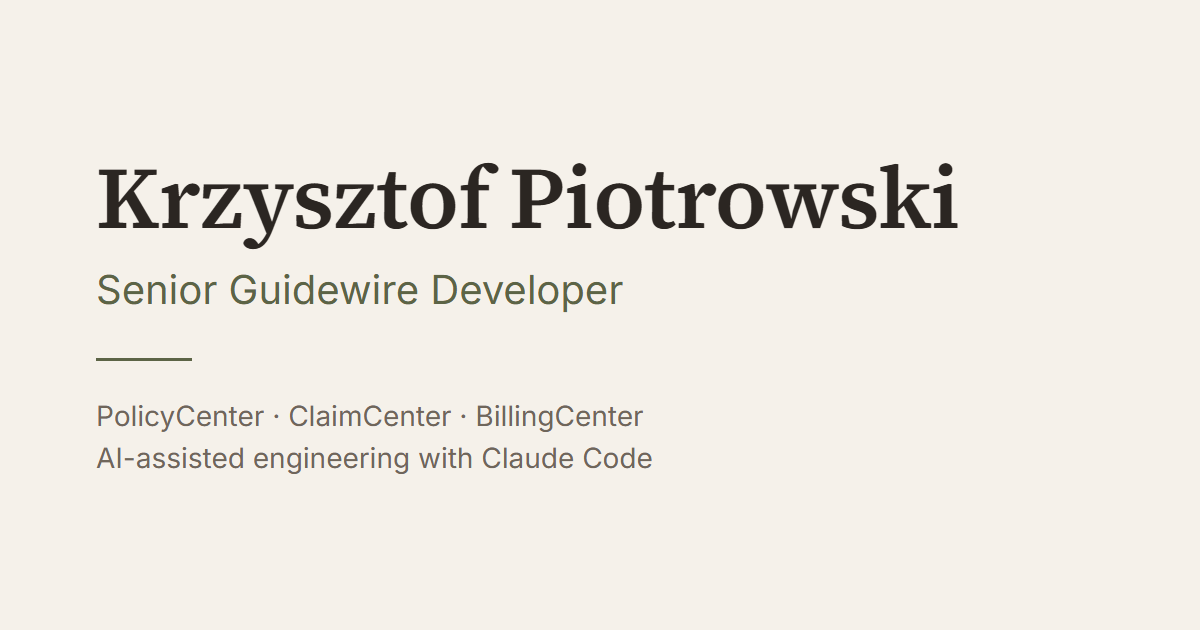
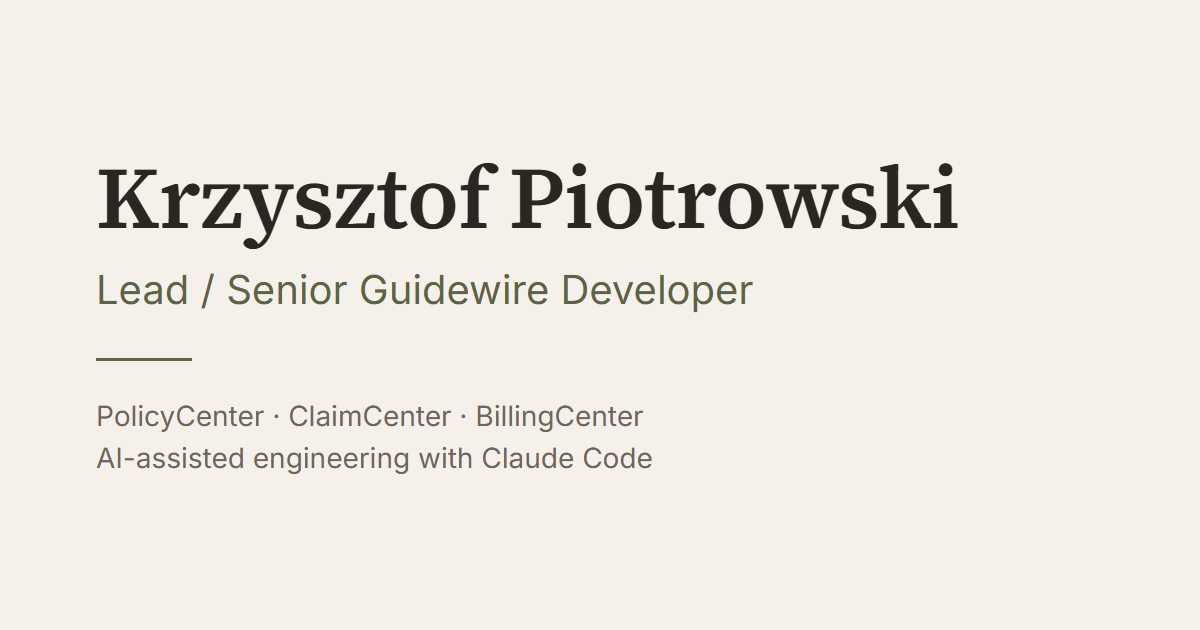
Update CV text and stop tracking content.md
- Title: Lead / Senior Guidewire Developer (header, page title, share card, structured data)
- Profile: ContactManager and the Qusar note removed, "lead AI-assisted engineering", eight years
- Baloise: shorter AI bullets (no position paper, no guardrails list), domain knowledge skills, integrations
- Beesafe: ContactManager removed, new PolicyCenter processes bullet
- Same changes in the German page
- content.md is now local only (gitignored)

Changed region(s): [[0.0617, 0.4222, 0.6475, 0.4825]]

diff --git a/de/index.html b/de/index.html
@@ -5,8 +5,8 @@
   <meta name="viewport" content="width=device-width, initial-scale=1">
   <!-- Keep search engines out until launch (Phase 4) -->
   <meta name="robots" content="noindex, nofollow">
-  <title>Krzysztof Piotrowski · Senior Guidewire Developer</title>
-  <meta name="description" content="Senior Guidewire Developer (PolicyCenter, ClaimCenter, BillingCenter), seit 2017 in der Entwicklung von Versicherungssystemen. KI-gestützte Softwareentwicklung mit Claude Code.">
+  <title>Krzysztof Piotrowski · Lead / Senior Guidewire Developer</title>
+  <meta name="description" content="Lead / Senior Guidewire Developer (PolicyCenter, ClaimCenter, BillingCenter), seit 2017 in der Entwicklung von Versicherungssystemen. KI-gestützte Softwareentwicklung mit Claude Code.">
   <link rel="canonical" href="https://purtata.github.io/de/">
   <link rel="icon" href="../favicon.svg" type="image/svg+xml">
   <link rel="stylesheet" href="../css/style.css">
@@ -17,12 +17,12 @@
   <!-- Link previews (LinkedIn, Slack, Teams, Facebook: Open Graph; X: Twitter card) -->
   <meta property="og:type" content="profile">
   <meta property="og:url" content="https://purtata.github.io/de/">
-  <meta property="og:title" content="Krzysztof Piotrowski · Senior Guidewire Developer">
+  <meta property="og:title" content="Krzysztof Piotrowski · Lead / Senior Guidewire Developer">
   <meta property="og:description" content="PolicyCenter, ClaimCenter und BillingCenter seit 2017. KI-gestützte Softwareentwicklung mit Claude Code.">
   <meta property="og:image" content="https://purtata.github.io/assets/og-image.png">
   <meta property="og:image:width" content="1200">
   <meta property="og:image:height" content="630">
-  <meta property="og:image:alt" content="Krzysztof Piotrowski, Senior Guidewire Developer">
+  <meta property="og:image:alt" content="Krzysztof Piotrowski, Lead / Senior Guidewire Developer">
   <meta property="og:locale" content="de_DE">
   <meta property="og:locale:alternate" content="en_GB">
   <meta property="profile:first_name" content="Krzysztof">
@@ -39,7 +39,7 @@
     "mainEntity": {
       "@type": "Person",
       "name": "Krzysztof Piotrowski",
-      "jobTitle": "Senior Guidewire Developer",
+      "jobTitle": "Lead / Senior Guidewire Developer",
       "url": "https://purtata.github.io/",
       "image": "https://purtata.github.io/assets/og-image.png",
       "sameAs": ["https://www.linkedin.com/in/krzysztof-piotrowski-22235b139"],
@@ -71,7 +71,7 @@
       <figcaption>So sieht mich Claude nach einer langen Session.<br><span>KI-generiertes Porträt</span></figcaption>
     </figure>
     <h1>Krzysztof Piotrowski</h1>
-    <p class="role">Senior Guidewire Developer</p>
+    <p class="role">Lead / Senior Guidewire Developer</p>
     <p class="meta">Rawicz, Polen · Remote</p>
     <p class="pitch">Seit 2017 entwickle ich Versicherungssysteme auf Guidewire, für Versicherer in Deutschland, der Schweiz und Polen. In meinem Team leite ich den Umstieg auf KI-gestützte Softwareentwicklung mit Claude Code.</p>
     <p class="actions">
@@ -84,9 +84,9 @@
 
     <section id="profile" aria-labelledby="profile-title">
       <h2 id="profile-title">Profil</h2>
-      <p>Senior Guidewire Developer, seit 2017 in der Entwicklung von Versicherungssystemen. Ich arbeite mit PolicyCenter, ClaimCenter, BillingCenter und ContactManager, in Konfiguration und Integration, für Versicherer in Deutschland, der Schweiz und Polen. Ich bin zertifizierter Guidewire Associate InsuranceSuite Developer (aktuelles Release, Qusar) und Configuration Specialist für PolicyCenter, ClaimCenter und BillingCenter.</p>
-      <p>In meinem aktuellen Team leite ich den Umstieg auf KI-gestützte Softwareentwicklung. Ich nutze Claude Code für agentische Entwicklung, baue das Harness und die Werkzeuge, die das auf einer großen Guidewire-Codebasis zuverlässig machen, und liefere damit Features und messbare Performance-Verbesserungen. Neue Kolleginnen und Kollegen rufen meist zuerst mich an.</p>
-      <p>Vor der Softwareentwicklung habe ich über sieben Jahre Bankfilialen und Versicherungsagenturen geführt. Ich kenne also die fachliche Seite der Systeme, die ich baue.</p>
+      <p>Senior Guidewire Developer, seit 2017 in der Entwicklung von Versicherungssystemen. Ich arbeite mit PolicyCenter, ClaimCenter und BillingCenter, in Konfiguration und Integration, für Versicherer in Deutschland, der Schweiz und Polen. Ich bin zertifizierter Guidewire Associate InsuranceSuite Developer und Configuration Specialist für PolicyCenter, ClaimCenter und BillingCenter.</p>
+      <p>In meinem aktuellen Team leite ich die KI-gestützte Softwareentwicklung. Ich nutze Claude Code für agentische Entwicklung, baue das Harness und die Werkzeuge, die das auf einer großen Guidewire-Codebasis zuverlässig machen, und liefere damit Features und messbare Performance-Verbesserungen.</p>
+      <p>Vor der Softwareentwicklung habe ich über acht Jahre Bankfilialen und Versicherungsagenturen geführt. Ich kenne also die fachliche Seite der Systeme, die ich baue.</p>
     </section>
 
     <section id="experience" aria-labelledby="experience-title">
@@ -97,10 +97,10 @@
         <p class="where"><time datetime="2025-07">Juli 2025</time> – heute · Warschau · Bad Homburg · Remote</p>
         <p class="project">HelvetiaBaloise Deutschland, PolicyCenter Bestandsführung · gemischtes Team beim deutschen Kunden (Beratung und interne Entwicklung)</p>
         <ul>
-          <li><strong>KI-Teamlead:</strong> Ich habe agentische, KI-gestützte Entwicklung in einem Team von 20 Personen (8 Entwickler) eingeführt und treibe sie voran. Entwickler aus mehreren Teams habe ich in Claude Code eingearbeitet (Setup, gemeinsame Artefakte, Lessons Learned), inklusive einer gemeinsamen Wissensbasis mit validierten Mustern und Erfahrungen, auf der jede KI-Session aufsetzt, und eines Positionspapiers der Community of Practice zu KI-generierten Tests.</li>
-          <li><strong>Lokale „Software Factory“ auf Basis von Claude Code:</strong> eine autonome Pipeline, die ein Jira-Ticket von der Aufnahme bis zur geprüften Übergabe begleitet, mit spezialisierten Agenten für Scoping, Analyse, Planung, Umsetzung und Verifikation sowie einem unabhängigen „Skeptiker“-Review. Leitplanken: keine autonomen Pushes, ein Commit pro Slice, ein Entscheidungslog und eine klare Kennzeichnung fachlicher Annahmen. Funktioniert über PolicyCenter, BillingCenter und ClaimCenter hinweg.</li>
-          <li><strong>Unterstützende KI-Skills:</strong> Guidewire-Code-Review gegen Akzeptanzkriterien, Analyse von Profiler-Exporten (N+1-Queries, SQL bis zum aufrufenden Gosu-Code zurückverfolgt), Log-Analyse mit Schutz vor Produktionszugriffen, Umwandlung von BA-Story-Cards und BPMN-Diagrammen in Text sowie Guidewire-Wissens-Skills (SQL mit Schemaprüfung, GUnit, Effective Dating, Workflows).</li>
-          <li><strong>Viele Tickets mit KI-Unterstützung umgesetzt</strong> (Features, Bugs, Performance), zum Beispiel eine mehrphasige Prämienregulierung, den Vermittlerwechsel als Vertragsänderung, Datenmigrationen und eine systemübergreifende Integration von PolicyCenter, ClaimCenter und BillingCenter.</li>
+          <li><strong>KI-Teamlead:</strong> Ich habe agentische, KI-gestützte Entwicklung in einem Team von 20 Personen (8 Entwickler) eingeführt und treibe sie voran. Entwickler aus mehreren Teams habe ich in Claude Code eingearbeitet (Setup, gemeinsame Artefakte, Lessons Learned), inklusive einer gemeinsamen Wissensbasis mit validierten Mustern und Erfahrungen, auf der jede KI-Session aufsetzt.</li>
+          <li><strong>Lokale „Software Factory“ auf Basis von Claude Code:</strong> eine autonome Pipeline, die ein Jira-Ticket von der Aufnahme bis zur geprüften Übergabe begleitet, mit spezialisierten Agenten für Scoping, Analyse, Planung, Umsetzung und Verifikation sowie einem unabhängigen „Skeptiker“-Review. Funktioniert über PolicyCenter, BillingCenter und ClaimCenter hinweg.</li>
+          <li><strong>Unterstützende KI-Skills:</strong> Guidewire-Code-Review gegen Akzeptanzkriterien, Skills mit Guidewire-spezifischem Fachwissen, Analyse von Profiler-Exporten (N+1-Queries, SQL bis zum aufrufenden Gosu-Code zurückverfolgt), Log-Analyse mit Schutz vor Produktionszugriffen und Umwandlung von BA-Story-Cards und BPMN-Diagrammen in Text.</li>
+          <li><strong>Viele Tickets mit KI-Unterstützung umgesetzt</strong> (Features, Bugs, Performance), zum Beispiel eine mehrphasige Prämienregulierung, den Vermittlerwechsel als Vertragsänderung, Datenmigrationen und systemübergreifende Integrationen zwischen PolicyCenter, ClaimCenter und BillingCenter.</li>
           <li><strong>Performance-Optimierung auf Basis von Profiling:</strong> den Großteil der SQL-Abfragen in einem zentralen Verlängerungsprozess eliminiert, die Abfragen einer schweren Maske auf einen Bruchteil reduziert, einen häufig genutzten Lookup mit einem Cluster-Cache um ein Mehrfaches beschleunigt, N+1-Ladevorgänge durch Batch-Loads ersetzt und systemübergreifende Aufrufe überarbeitet, um Timeouts bei großen Accounts zu beheben.</li>
           <li><strong>Fachliche Analyse und Produktionsanalyse:</strong> User Stories vor der Entwicklung gemeinsam mit den BAs schärfen; Produktionsvorfälle auf Produktionsdaten untersuchen (SQL, Splunk) und die Ursachen in Änderungen an Stories und Lösungen überführen, mit verständlichen Zusammenfassungen auf Englisch und Deutsch für BAs und Tester.</li>
           <li>PolicyCenter-Prozesse für neue Produkte gebaut: Wohngebäude-, Hausrat- und Gewerbeversicherung.</li>
@@ -114,7 +114,8 @@
         <p class="where"><time datetime="2023-05">Mai 2023</time> – <time datetime="2025-06">Juni 2025</time> · Warschau</p>
         <p class="project">Beesafe / Compensa Polen, alle vier Guidewire-Anwendungen</p>
         <ul>
-          <li>PolicyCenter, ClaimCenter, BillingCenter und ContactManager im Kernteam gewartet und weiterentwickelt, in enger Zusammenarbeit mit anderen Teams und den Fachbereichen.</li>
+          <li>PolicyCenter, ClaimCenter und BillingCenter im Kernteam gewartet und weiterentwickelt, in enger Zusammenarbeit mit anderen Teams und den Fachbereichen.</li>
+          <li>PolicyCenter-Prozesse: alle Vertragstransaktionen, die Nachverarbeitung und Integrationen mit anderen Systemen.</li>
           <li>PolicyCenter-Produktmodell: Systemtabellen, APD, neue Deckungen und Unterstützung der Aktuare bei Tarifänderungen.</li>
           <li>ClaimCenter-Geschäftsprozesse konzipiert und umgesetzt: Schadenmeldung (FNOL), vom Kunden benötigte Unterlagen und die Schadenakte.</li>
           <li>ClaimCenter-Integration mit Tractable (externer Dienst zur Bewertung von Fahrzeugschäden) konzipiert und umgesetzt: Versand der Schadenanfragen und Verarbeitung der zurückgelieferten Reparaturkalkulation.</li>

diff --git a/index.html b/index.html
@@ -5,8 +5,8 @@
   <meta name="viewport" content="width=device-width, initial-scale=1">
   <!-- Keep search engines out until launch (Phase 4) -->
   <meta name="robots" content="noindex, nofollow">
-  <title>Krzysztof Piotrowski · Senior Guidewire Developer</title>
-  <meta name="description" content="Senior Guidewire Developer (PolicyCenter, ClaimCenter, BillingCenter) building insurance systems since 2017. AI-assisted engineering with Claude Code.">
+  <title>Krzysztof Piotrowski · Lead / Senior Guidewire Developer</title>
+  <meta name="description" content="Lead / Senior Guidewire Developer (PolicyCenter, ClaimCenter, BillingCenter) building insurance systems since 2017. AI-assisted engineering with Claude Code.">
   <link rel="canonical" href="https://purtata.github.io/">
   <link rel="icon" href="favicon.svg" type="image/svg+xml">
   <link rel="stylesheet" href="css/style.css">
@@ -17,12 +17,12 @@
   <!-- Link previews (LinkedIn, Slack, Teams, Facebook: Open Graph; X: Twitter card) -->
   <meta property="og:type" content="profile">
   <meta property="og:url" content="https://purtata.github.io/">
-  <meta property="og:title" content="Krzysztof Piotrowski · Senior Guidewire Developer">
+  <meta property="og:title" content="Krzysztof Piotrowski · Lead / Senior Guidewire Developer">
   <meta property="og:description" content="PolicyCenter, ClaimCenter and BillingCenter since 2017. AI-assisted engineering with Claude Code.">
   <meta property="og:image" content="https://purtata.github.io/assets/og-image.png">
   <meta property="og:image:width" content="1200">
   <meta property="og:image:height" content="630">
-  <meta property="og:image:alt" content="Krzysztof Piotrowski, Senior Guidewire Developer">
+  <meta property="og:image:alt" content="Krzysztof Piotrowski, Lead / Senior Guidewire Developer">
   <meta property="og:locale" content="en_GB">
   <meta property="og:locale:alternate" content="de_DE">
   <meta property="profile:first_name" content="Krzysztof">
@@ -38,7 +38,7 @@
     "mainEntity": {
       "@type": "Person",
       "name": "Krzysztof Piotrowski",
-      "jobTitle": "Senior Guidewire Developer",
+      "jobTitle": "Lead / Senior Guidewire Developer",
       "url": "https://purtata.github.io/",
       "image": "https://purtata.github.io/assets/og-image.png",
       "sameAs": ["https://www.linkedin.com/in/krzysztof-piotrowski-22235b139"],
@@ -70,7 +70,7 @@
       <figcaption>How Claude sees me after a long session.<br><span>AI-generated portrait</span></figcaption>
     </figure>
     <h1>Krzysztof Piotrowski</h1>
-    <p class="role">Senior Guidewire Developer</p>
+    <p class="role">Lead / Senior Guidewire Developer</p>
     <p class="meta">Rawicz, Poland · Remote</p>
     <p class="pitch">Building insurance systems on Guidewire since 2017, for insurers in Germany, Switzerland and Poland. I lead my team's move to AI-assisted engineering with Claude Code.</p>
     <p class="actions">
@@ -83,9 +83,9 @@
 
     <section id="profile" aria-labelledby="profile-title">
       <h2 id="profile-title">Profile</h2>
-      <p>Senior Guidewire Developer building insurance systems since 2017. I work on PolicyCenter, ClaimCenter, BillingCenter and ContactManager, across configuration and integration, for insurers in Germany, Switzerland and Poland. I'm a certified Guidewire Associate InsuranceSuite Developer (current release, Qusar) and a Configuration Specialist for PolicyCenter, ClaimCenter and BillingCenter.</p>
-      <p>In my current team I lead the move to AI-assisted engineering. I use Claude Code for agentic development, build the harness and tooling that make it reliable on a large Guidewire codebase, and use it to deliver features and measurable performance gains. I'm usually the first person new joiners call.</p>
-      <p>Before software, I spent over seven years running bank branches and insurance agencies, so I know the business side of the systems I build.</p>
+      <p>Senior Guidewire Developer building insurance systems since 2017. I work on PolicyCenter, ClaimCenter and BillingCenter, across configuration and integration, for insurers in Germany, Switzerland and Poland. I'm a certified Guidewire Associate InsuranceSuite Developer and a Configuration Specialist for PolicyCenter, ClaimCenter and BillingCenter.</p>
+      <p>In my current team I lead AI-assisted engineering. I use Claude Code for agentic development, build the harness and tooling that make it reliable on a large Guidewire codebase, and use it to deliver features and measurable performance gains.</p>
+      <p>Before software, I spent over eight years running bank branches and insurance agencies, so I know the business side of the systems I build.</p>
     </section>
 
     <section id="experience" aria-labelledby="experience-title">
@@ -96,10 +96,10 @@
         <p class="where"><time datetime="2025-07">July 2025</time> – present · Warsaw · Bad Homburg (Germany) · Remote</p>
         <p class="project">HelvetiaBaloise Germany, PolicyCenter Policy Management · mixed German client team (consultancy and in-house developers)</p>
         <ul>
-          <li><strong>AI team lead:</strong> I introduced and promote agentic, AI-assisted development in a team of 20 (8 developers) and onboarded developers across teams to Claude Code (setup, shared artifacts, lessons learned), including a shared knowledge base of validated patterns and lessons learned that every AI session starts from, and a Community of Practice position paper on AI-generated tests.</li>
-          <li><strong>Built a local "software factory" on Claude Code:</strong> an autonomous pipeline that takes a Jira ticket from intake to a reviewed handover, with specialised agents for scoping, analysis, planning, execution, verification and an independent "skeptic" review. Guardrails: no autonomous pushes, one commit per slice, a decision log, and explicit flags for business assumptions. Works across PolicyCenter, BillingCenter and ClaimCenter.</li>
-          <li><strong>Built a set of supporting AI skills:</strong> Guidewire code review against acceptance criteria, profiler-export analysis (N+1 queries, SQL traced to Gosu callers), log investigation with a non-production guardrail, converting BA story cards and BPMN diagrams to text, and Guidewire knowledge skills (SQL with schema validation, GUnit, effective dating, workflows).</li>
-          <li><strong>Delivered many tickets with AI support</strong> (features, bugs, performance), for example a multi-phase premium-regulation feature, producer change as a policy change, data migrations, and a cross-system PolicyCenter / ClaimCenter / BillingCenter integration.</li>
+          <li><strong>AI team lead:</strong> I introduced and promote agentic, AI-assisted development in a team of 20 (8 developers) and onboarded developers across teams to Claude Code (setup, shared artifacts, lessons learned), including a shared knowledge base of validated patterns and lessons learned that every AI session starts from.</li>
+          <li><strong>Built a local "software factory" on Claude Code:</strong> an autonomous pipeline that takes a Jira ticket from intake to a reviewed handover, with specialised agents for scoping, analysis, planning, execution, verification and an independent "skeptic" review. Works across PolicyCenter, BillingCenter and ClaimCenter.</li>
+          <li><strong>Built a set of supporting AI skills:</strong> Guidewire code review against acceptance criteria, Guidewire-specific domain knowledge skills, profiler-export analysis (N+1 queries, SQL traced to Gosu callers), log investigation with a non-production guardrail, and converting BA story cards and BPMN diagrams to text.</li>
+          <li><strong>Delivered many tickets with AI support</strong> (features, bugs, performance), for example a multi-phase premium-regulation feature, producer change as a policy change, data migrations, and cross-system PolicyCenter / ClaimCenter / BillingCenter integrations.</li>
           <li><strong>Profiling-driven performance work:</strong> eliminated most of the SQL in a key renewal process, cut a heavy screen to a fraction of its queries, made a hot lookup several times faster with a cluster cache, replaced N+1 loads with batch loads, and reworked cross-system calls to fix timeouts on large accounts.</li>
           <li><strong>Business and production analysis:</strong> shape user stories with BAs before development; investigate production incidents on production data (SQL, Splunk) and turn the root causes into story and solution changes, with plain-language summaries in English and German for BAs and testers.</li>
           <li>Built PolicyCenter processes for new products: residential building, household and commercial insurance.</li>
@@ -113,7 +113,8 @@
         <p class="where"><time datetime="2023-05">May 2023</time> – <time datetime="2025-06">June 2025</time> · Warsaw</p>
         <p class="project">Beesafe / Compensa Poland, all four Guidewire applications</p>
         <ul>
-          <li>Maintained and developed PolicyCenter, ClaimCenter, BillingCenter and ContactManager in the core team, working closely with other teams and business owners.</li>
+          <li>Maintained and developed PolicyCenter, ClaimCenter and BillingCenter in the core team, working closely with other teams and business owners.</li>
+          <li>PolicyCenter processes: all transactions, post-processing, and integrations with other systems.</li>
           <li>PolicyCenter product model: system tables, APD, new coverages, and support for actuaries in rating changes.</li>
           <li>Designed and implemented ClaimCenter business processes: FNOL, required documents from the client, and the claim file.</li>
           <li>Designed and implemented the ClaimCenter integration with Tractable (an external vehicle-damage estimation service): sending claim requests and processing the returned repair pricing.</li>

diff --git a/tools/og-image.html b/tools/og-image.html
@@ -15,7 +15,7 @@ h1 { font: 600 88px/1.05 "Source Serif", Georgia, serif; margin: 0; letter-spaci
 </style></head>
 <body>
   <h1>Krzysztof Piotrowski</h1>
-  <div class="role">Senior Guidewire Developer</div>
+  <div class="role">Lead / Senior Guidewire Developer</div>
   <div class="rule"></div>
   <div class="line">PolicyCenter · ClaimCenter · BillingCenter<br>AI-assisted engineering with Claude Code</div>
 </body></html>
